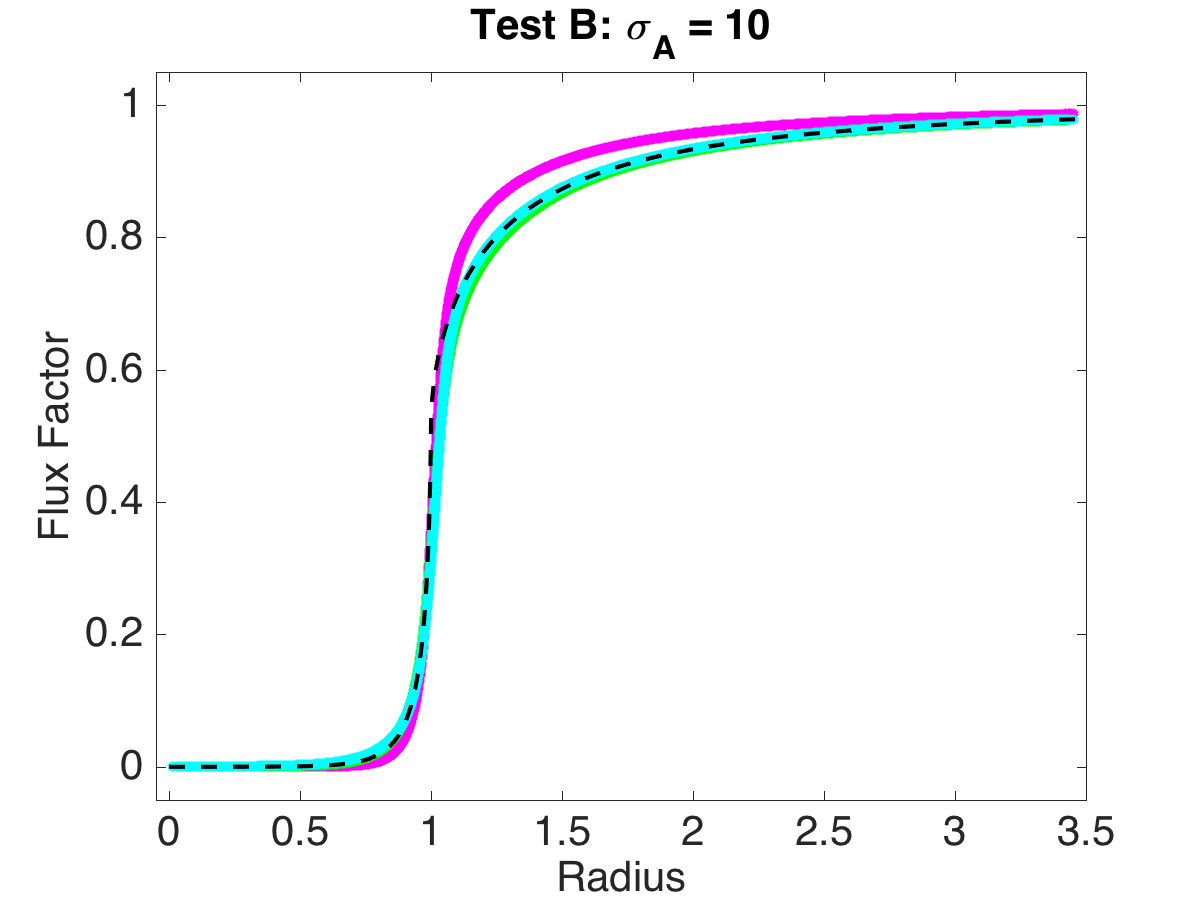
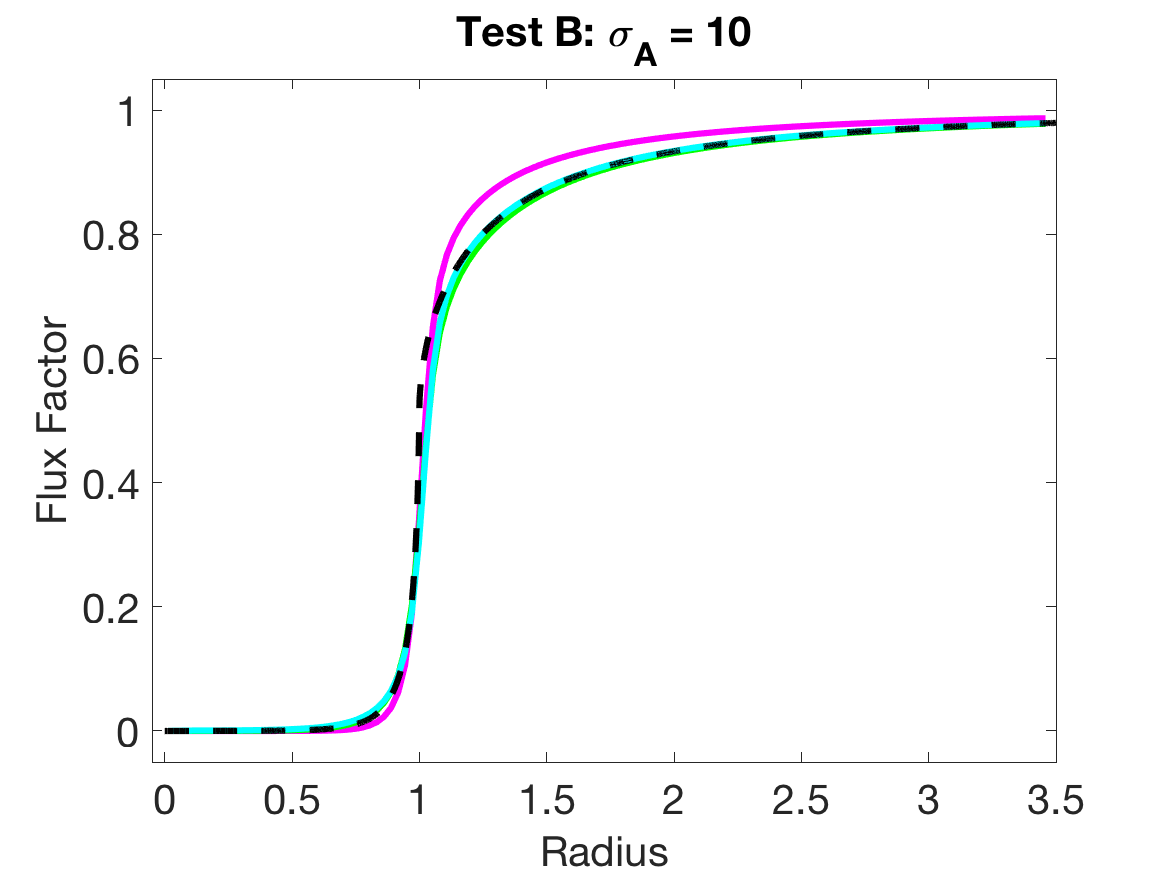
Various edits.  Replaces homogeneous sphere figures

diff --git a/Documents/M1/realizableFermionicM1/sections/intro.tex b/Documents/M1/realizableFermionicM1/sections/intro.tex
@@ -1,12 +1,12 @@
 \section{Introduction}
 \label{sec:intro}
 
-In this paper we design numerical methods to solve the two-moment model governing transport of particles obeying by Fermi-Dirac statistics (e.g., neutrinos), with the ultimate target being nuclear astrophysics applications (e.g., neutrino transport in core-collapse supernovae and compact binary mergers).  
-The numerical method is based on the discontinuous Galerkin (DG) method for spatial discretization, implicit-explicit (IMEX) methods for time integration, and is designed to preserve certain physical constraints of the underlying model.  
+In this paper we design numerical methods to solve the two-moment model governing transport of particles obeying Fermi-Dirac statistics (e.g., neutrinos), with the ultimate target being nuclear astrophysics applications (e.g., neutrino transport in core-collapse supernovae and compact binary mergers).  
+The numerical method is based on the discontinuous Galerkin (DG) method for spatial discretization and implicit-explicit (IMEX) methods for time integration, and is designed to preserve certain physical constraints of the underlying model.  
 The latter property is achieved by considering the spatial and temporal discretization together with the closure procedure for the two-moment model.  
 
 In many applications, the particle mean free path is comparable to or exceeds other characteristic length scales in the system under consideration (i.e., the Knudsen number exceeds unity), and non-equilibrium effects may become important.  
-In these situations, a kinetic description may be required, where particle distribution function $f(\vect{p},\vect{x},t)$ is solved for.  
+In these situations, a kinetic description may be required, where a particle distribution function $f(\vect{p},\vect{x},t)$ is solved for.  
 The distribution function, a phase space density depending on momentum $\vect{p}\in\bbR^{3}$ and position $\vect{x}\in\bbR^{3}$, gives at time $t\in\bbR^{+}$ the number of particles in the phase space volume element $d\vect{p}\,d\vect{x}$ (i.e., $dN=f\,d\vect{p}\,d\vect{x}$).  
 The evolution of the distribution function is governed by the Boltzmann equation, which states a balance between phase space advection and collisions (see, e.g., \cite{braginskii_1965,chapmanCowling_1970,lifshitzPitaevskii_1981}).  
 
@@ -39,33 +39,33 @@ Furthermore, the set of realizable moments generated by the particle density and
 In the fermionic case, there is also an upper bound on the distribution function (e.g., $f\le1$) because Pauli's exclusion principle prevents particles from occupying the same microscopic state.  
 The fermionic two-moment model has recently been studied theoretically in the context of maximum entropy closures \cite{lareckiBanach_2011,banachLarecki_2013,banachLarecki_2017b} and Kershaw-type closures \cite{banachLarecki_2017a}.  
 Because of the upper bound on the distribution function, the algebraic constraints on realizable moments differ from the classical case with no upper bound, and can lead to significantly different dynamics when the occupancy is high (i.e., when $f$ is close to its upper bound).  
-In the fermionic case, the set of realizable moments generated by the particle density and flux vector is also convex, and resembles a ``pinched'' cone.  
+In the fermionic case, the set of realizable moments generated by the particle density and flux vector is also convex, and resembles a ``pinched'' cone (as will be shown; cf. Figure~\ref{fig:RealizableSetFermionic} in Section~\ref{sec:realizability}).  
 It coincides with the realizable set for the classical case when the occupancy is low, but is much more restricted for high occupancy.  
 
 In this paper, the two-moment model is discretized in space using high-order Discontinuous Galerkin (DG) methods (e.g., \cite{cockburnShu_2001,hesthavenWarburton_2008}).  
 DG methods combine elements from both spectral and finite volume methods, and are an attractive option for solving hyperbolic partial differential equations (PDEs).  
 They achieve high-order accuracy on a compact stencil; i.e., data is only communicated with nearest neighbors, regardless of the formal order of accuracy, which can lead to a high computation to communication ratio, and favorable parallel scalability on heterogeneous architectures has been demonstrated \cite{klockner_etal_2009}.  
 Furthermore, they can easily be applied to problems involving curvilinear coordinates (e.g., beneficial in numerical relativity \cite{teukolsky_2016}).  
-Importantly, DG methods, exhibit favorable properties when collisions with a background are included as they recover the correct asymptotic behavior in the diffusion limit, characterized by frequent collisions (e.g., \cite{larsenMorel_1989,adams_2001,guermondKanschat_2010}).  
-The DG method was introduced in the 1970s by Reed \& Hill \cite{reedHill_1973} to solve the neutron transport equation, and has undergone remarkable developments since then (see, e.g., \cite{shu_2016}, and references therein).  
+Importantly, DG methods exhibit favorable properties when collisions with a background are included, as they recover the correct asymptotic behavior in the diffusion limit, characterized by frequent collisions (e.g., \cite{larsenMorel_1989,adams_2001,guermondKanschat_2010}).  
+The DG method was introduced in the 1970s by Reed \& Hill \cite{reedHill_1973} to solve the neutron transport equation, and has undergone remarkable developments since then (see, e.g., \cite{shu_2016} and references therein).  
 
 We are concerned with the development and application of DG methods for the fermionic two-moment model that can preserve the aforementioned algebraic constraints and ensure realizable moments, provided the initial condition is realizable.  
 Our approach is based on the constraint-preserving (CP) framework introduced in \cite{zhangShu_2010a}, and later extended to the Euler equations of gas dynamics in \cite{zhangShu_2010b}.  
-(See e.g., \cite{xing_etal_2010,zhangShu_2011,olbrant_etal_2012,cheng_etal_2013,zhang_etal_2013,endeve_etal_2015,wuTang_2015}, for extensions and applications to other systems.)  
-The main ingredients include (1) a realizability-preserving update for the cell averaged moments based on Euler time stepping, which evaluates the polynomial representation of the DG method in a finite number of quadrature points in the local elements and results in a Courant-Friedrichs-Lewy (CFL) condition on the time step; (2) a limiter to modify the polynomial representation to ensure that the algebraic constraints are satisfied point-wise without changing the cell average of the moments; and (3) a time stepping method that can be expressed as a convex combination of Euler steps, and therefore preserves the algebraic constraints as the Euler methods (possibly with a modified CFL condition).  
+(See, e.g., \cite{xing_etal_2010,zhangShu_2011,olbrant_etal_2012,cheng_etal_2013,zhang_etal_2013,endeve_etal_2015,wuTang_2015} for extensions and applications to other systems.)  
+The main ingredients include (1) a realizability-preserving update for the cell averaged moments based on Euler time stepping, which evaluates the polynomial representation of the DG method in a finite number of quadrature points in the local elements and results in a Courant-Friedrichs-Lewy (CFL) condition on the time step; (2) a limiter to modify the polynomial representation to ensure that the algebraic constraints are satisfied point-wise without changing the cell average of the moments; and (3) a time stepping method that can be expressed as a convex combination of Euler steps, and therefore preserves the algebraic constraints as do the Euler methods (possibly with a modified CFL condition).  
 
 The DG discretization leaves the temporal dimension continuous.  
 This semi-discretization leads to a system of ordinary differential equations (ODEs), which can be integrated with standard ODE solvers (i.e., the method of lines approach to solving PDEs).  
 We use implicit-explicit (IMEX) Runge-Kutta (RK) methods \cite{ascher_etal_1997,pareschiRusso_2005} to integrate the two-moment model forward in time.  
 This approach is motivated by the fact that we can resolve time scales associated with particle streaming terms in the moment equations, which will be integrated with explicit methods, while terms associated with collisional interactions with the background induce fast time scales that we do not wish to resolve, and will be integrated with implicit methods.  
-This splitting has some advantages when solving kinetic equations since the collisional interactions may couple across momentum space, but are local in position space, and is easier to parallelize than a fully implicit approach.  
+This splitting has some advantages when solving kinetic equations since the collisional interactions may couple across momentum space, but are local in position space, and are easier to parallelize than a fully implicit approach.  
 
-The CP framework of \cite{zhangShu_2010a} achieve high order (i.e., greater than first order) accuracy in time by employing explicit strong stability-preserving Runge-Kutta (SSP-RK) methods \cite{shuOsher_1988,gottlieb_etal_2001}, which can be written as a convex combination of forward Euler steps.  
-Unfortunately, this strategy to achieve high order temporal accuracy does not work as straightforwardly for standard IMEX Runge-Kutta (IMEX-RK) methods because implicit SSP Runge-Kutta methods with greater than first order accuracy do not exist \cite{gottlieb_etal_2001}.  
-To break this ``barrier'', recently proposed IMEX-RK schemes \cite{chertock_etal_2015,hu_etal_2018} have resorted to first order accuracy in favor of the SSP property in the standard IMEX-RK scheme, and recover second-order accuracy with a correction step.  
+The CP framework of \cite{zhangShu_2010a} achieves high-order (i.e., greater than first order) accuracy in time by employing strong stability-preserving explicit Runge-Kutta (SSP-RK) methods \cite{shuOsher_1988,gottlieb_etal_2001}, which can be written as a convex combination of forward Euler steps.  
+Unfortunately, this strategy to achieve high-order temporal accuracy does not work as straightforwardly for standard IMEX Runge-Kutta (IMEX-RK) methods because implicit SSP Runge-Kutta methods with greater than first order accuracy do not exist \cite{gottlieb_etal_2001}.  
+To break this ``barrier,'' recently proposed IMEX-RK schemes \cite{chertock_etal_2015,hu_etal_2018} have resorted to first order accuracy in favor of the SSP property in the standard IMEX-RK scheme, and recover second-order accuracy with a correction step.  
 
 We consider the application of the correction approach to the two-moment model.  
-However, with the correction step from \cite{chertock_etal_2015} we are unable to prove the realizability-preserving property without invoking a too restrictive time step.  
+However, with the correction step from \cite{chertock_etal_2015} we are unable to prove the realizability-preserving property without invoking a too-restrictive time step.  
 With the correction step from \cite{hu_etal_2018} the realizability-preserving property is guaranteed with a time step comparable to that of the forward Euler method applied to the explicit part of the scheme, but the resulting scheme performs poorly in the asymptotic diffusion limit.  
 Because of these challenges, we resort to first-order temporal accuracy, and propose IMEX-RK schemes that are constraint-preserving with a time step equal to that of forward Euler on the explicit part, perform well in the diffusion limit, and reduce to a second-order SSP-RK scheme in the streaming limit (no collisions with the background material).  
 
@@ -73,11 +73,11 @@ The realizability-preserving property of the DG-IMEX scheme depends sensitively 
 Employing the simple Lax-Friedrichs flux and imposing a suitable CFL condition on the time step, the explicit update of the cell average can be written as a convex combination.  
 Realizability of the updated cell average is then guaranteed from convexity arguments \cite{zhangShu_2010a}, provided all the elements in the convex combination are realizable.  
 Realizability of individual elements in the convex combination is conditional on the closure procedure (components of the Eddington tensor must be computed to evaluate numerical fluxes).  
-We prove that each element in the convex combination is realizable, provided the moments involved in expressing the elements are moments of a distribution function satisfying the bounds implied by Fermi-Dirac statistics (i.e., $0\le f \le 1$).  
-For simple algebraic two-moment closures, which we consider, the so-called Eddington factor is given by an algebraic expression depending on the evolved moments and completely determines the components of the Eddington tensor.  
-Realizable components of the Eddington tensor demands that the Eddington factor satisfies strict lower and upper bounds (e.g., \cite{levermore_1984,lareckiBanach_2011}).  
-We discuss simple algebraic closures derived from Fermi-Dirac statistics that satisfy these bounds, and demonstrate with numerical experiments that the DG-IMEX scheme preserves realizability of the moments when these closures are used.  
-We also demonstrate that further approximations to algebraic two-moment closures for modeling particle systems governed by Fermi-Dirac statistics may give results that are incompatible with a bounded distribution and therefore unphysical.  
+We prove that each element in the convex combination is realizable provided the moments involved in expressing the elements are moments of a distribution function satisfying the bounds implied by Fermi-Dirac statistics (i.e., $0\le f \le 1$).  
+For algebraic two-moment closures, which we consider, the so-called Eddington factor is given by an algebraic expression depending on the evolved moments and completely determines the components of the Eddington tensor.  
+Realizable components of the Eddington tensor demand that the Eddington factor satisfies strict lower and upper bounds (e.g., \cite{levermore_1984,lareckiBanach_2011}).  
+We discuss algebraic closures derived from Fermi-Dirac statistics that satisfy these bounds, and demonstrate with numerical experiments that the DG-IMEX scheme preserves realizability of the moments when these closures are used.  
+We also demonstrate that further approximations to algebraic two-moment closures for modeling particle systems governed by Fermi-Dirac statistics may give results that are incompatible with a bounded distribution and, therefore, unphysical.  
 The example we consider is the Minerbo closure \cite{minerbo_1978}, which can be obtained as the low occupancy limit of the maximum entropy closure of Cernohorsky \& Bludman \cite{cernohorskyBludman_1994}.  
 
 The paper is organized as follows.  

diff --git a/Documents/M1/realizableFermionicM1/sections/conclusion.tex b/Documents/M1/realizableFermionicM1/sections/conclusion.tex
@@ -2,31 +2,31 @@
 \label{sec:conclusions}
 
 We have developed a realizability-preserving DG-IMEX scheme for a two-moment model for fermion transport.  
-The scheme employs simple algebraic two-moment closures rooted in Fermi-Dirac statistics, and combines a time step restriction (CFL condition), a realizability-enforcing limiter, and a constraint-preserving time integrator to maintain point-wise realizability of the moments.  
+The scheme employs algebraic two-moment closures rooted in Fermi-Dirac statistics, and combines a time step restriction (CFL condition), a realizability-enforcing limiter, and a constraint-preserving time integrator to maintain point-wise realizability of the moments.  
 Since the realizable domain is a convex set, the realizability-preserving property is obtained from convexity arguments, building on the framework in \cite{zhangShu_2010a}.  
 
 In the applications motivating this work, the collision term is stiff in regions of the computational domain, and we have considered IMEX schemes to avoid solving the transport operator implicitly in a fully implicit scheme.  
-We considered recently proposed second-order accurate, constraint-preserving IMEX schemes (cf. \cite{chertock_etal_2015,hu_etal_2018}), which restore second-order accuracy with an implicit correction step.  
+We considered recently proposed second-order accurate, constraint-preserving IMEX schemes \cite{chertock_etal_2015,hu_etal_2018}, which restore second-order accuracy with an implicit correction step.  
 However, we are unable to prove realizability (without invoking a very small time step) with the approach in \cite{chertock_etal_2015}, and we have demonstrated that the approach in \cite{hu_etal_2018} does not perform well in the diffusion limit.  
 For these reasons, and the general nonexistence of high-order, implicit SSP-RK schemes \cite{gottlieb_etal_2001}, we have resorted to develop first-order, constraint-preserving IMEX schemes.  
-While the proposed scheme (dubbed PD-ARS) is formally only first-order accurate, it works well in the diffusion limit, is constraint-preserving with a reasonable time step, and reduces to the optimal second-order accurate SSP-RK scheme in the streaming limit.  
+While the proposed scheme (dubbed PD-ARS) is formally only first-order accurate, it works well in the diffusion limit, is constraint-preserving with a reasonable time step, and reduces to the optimal second-order accurate explicit SSP-RK scheme in the streaming limit.  
 
-For each stage of the IMEX scheme, the cell-averaged moments can be written as a convex combination of forward Euler steps (implying the Shu-Osher form for the explicit part), followed by a backward Euler step.  
-Realizability of the explicit part requires the DG solution to be realizable in a finite number of quadrature points in each element and the time step to satisfy a CFL condition.  
-For the backward Euler step, realizability of the cell-averages follows easily from the simple form of the collision operator (which includes emission, absorption, and isotropic elastic scattering), and is independent of the time step.  
-The CFL condition is then solely due to the transport operator, and the time step can be as large as that of the forward Euler scheme applied to the explicit part.  
-After each update, the limiter enforces moment realizability point-wise by damping towards the realizable cell average.  
+For each stage of the IMEX scheme, the update of the cell-averaged moments can be written as a convex combination of forward Euler steps (implying the Shu-Osher form for the explicit part), followed by a backward Euler step.  
+Realizability of the cell-averaged moments due to the explicit part requires the DG solution to be realizable in a finite number of quadrature points in each element and the time step to satisfy a CFL condition.  
+For the backward Euler step, realizability of the cell-averages follows easily from the simple form of the collision operator (which includes emission, absorption, and isotropic scattering without energy exchange), and is independent of the time step.  
+The CFL condition is then solely due to the transport operator, and the time step can be as large as that of the forward Euler scheme applied to the explicit part of the cell-average update.  
+After each stage update, the limiter enforces moment realizability point-wise by damping towards the realizable cell average.  
 Numerical experiments are presented to demonstrate the accuracy and realizability-preserving property of the scheme.  
 The applicability of the PD-ARS scheme is not restricted to the fermionic two-moment model.  
 It may therefore be a useful option in other applications of kinetic theory where physical constraints confine solutions to a convex set and capturing the diffusion limit is important.  
 
 Realizability of the fermionic two-moment model depends sensitively on the closure procedure.  
-For the simple algebraic closures adapted in this work, realizability of the scheme demands that lower and upper bounds on the Eddington factor are satisfied \cite{levermore_1984,lareckiBanach_2011}.  
-The Eddington factors deriving from the maximum entropy closures of Cernohorsky \& Bludman \cite{cernohorskyBludman_1994} and Larecki \& Banach \cite{lareckiBanach_2011}, and the Kershaw-type closure of Larecki \& Banach \cite{banachLarecki_2017a} satisfy these bounds, and are suitable for the fermionic two-moment model.  
-Further approximations of the closure procedure, e.g., employing the low occupancy limit, which results in the Minerbo closure \cite{minerbo_1978} when starting with the maximum entropy closure of \cite{cernohorskyBludman_1994}, is not compatible with realizability of the fermionic two-moment model, and we caution against this approach to modeling particle systems governed by Fermi-Dirac statistics; particularly if the low occupancy approximation is unlikely to hold (e.g., when modeling neutrino transport in core-collapse supernovae).  
+For the algebraic closures adapted in this work, realizability of the scheme demands that lower and upper bounds on the Eddington factor are satisfied \cite{levermore_1984,lareckiBanach_2011}.  
+The Eddington factors deriving from the maximum entropy closures of Cernohorsky \& Bludman \cite{cernohorskyBludman_1994} and Larecki \& Banach \cite{lareckiBanach_2011}, and the Kershaw-type closure of Larecki \& Banach \cite{banachLarecki_2017a}, satisfy these bounds, and are suitable for the fermionic two-moment model.  
+Further approximations of the closure procedure (e.g., employing the low occupancy limit, which results in the Minerbo closure \cite{minerbo_1978} when starting with the maximum entropy closure of \cite{cernohorskyBludman_1994}) is not compatible with realizability of the fermionic two-moment model, and we caution against this approach to modeling particle systems governed by Fermi-Dirac statistics; particularly if the low occupancy approximation is unlikely to hold (e.g., when modeling neutrino transport in core-collapse supernovae).  
 
 In this work, we considered a relatively simple model.  
-In particular, we adopted Cartesian coordinates, assumed a linear collision operator and a fixed material background.  
-Inelastic scattering and relativistic effects (e.g., due to interactions with a moving background or the presence of a strong gravitational field) were not included.  
-To solve more realistic problems of higher scientific interest, some or all of these physical effects may have to be included.  
-In the context of constraint-preserving schemes, these extension provide significant challenges suitable for future investigations, and for which the scheme presented here may serve as a foundation.  
+In particular, we adopted Cartesian coordinates, and assumed a linear collision operator and a fixed material background.  
+Scattering with energy exchange and relativistic effects (e.g., due to a moving material and the presence of a strong gravitational field) were not included.  
+To solve more realistic problems of scientific interest, some or all of these physical effects will have to be included.  
+In the context of developing constraint-preserving schemes, these extensions will provide significant challenges suitable for future investigations, for which the scheme presented here may serve as a foundation.  

diff --git a/Documents/M1/realizableFermionicM1/sections/imex.tex b/Documents/M1/realizableFermionicM1/sections/imex.tex
@@ -17,7 +17,7 @@ In Eq.~\eqref{eq:ode}, the transport operator $\vect{\cT}$ corresponds to the se
 
 Eq.~\eqref{eq:ode} is to be integrated forward in time with an ODE integrator, and we begin with the following definition of a constraint-preserving time integration scheme, as applied to integrate a physical model forward in time.  
 \begin{define}
-  Given sufficient conditions, a constraint-preserving time integration scheme preserves the constraints of a model if the set of admissible states satisfying the constraints form a convex set.  
+  Given sufficient conditions, a constraint-preserving time integration scheme preserves the constraints of a model if the set of admissible states satisfying the constraints forms a convex set.  
   \label{def:constraintPreserving}
 \end{define}
 As an example, given a spatial discretization of a model that is constraint-preserving with the forward Euler method for a sufficiently small time step, high-order explicit strong stability-preserving Runge-Kutta (SSP-RK) methods, which can be expressed as convex combinations of forward Euler steps, also preserve the constraints (possibly with a smaller time step), and form a class of constraint-preserving schemes.  
@@ -141,17 +141,19 @@ The absence of the transport operator in the correction step in Eq.~\eqref{eq:im
 We demonstrate the inferior performance of IMEX schemes with this correction step in the diffusion limit in Section~\ref{sec:smoothProblems}.  
 We have also implemented and tested one of the IMEX schemes in Chertock et al. \cite{chertock_etal_2015} (not included in Section~\ref{sec:smoothProblems}), where the transport operator is part of the correction step, and found it to perform very well in the diffusion limit.  
 However, we have not been able to prove the realizability-preserving property with this approach without invoking a too severe time step restriction.  
-We therefore proceed to design constraint-preserving IMEX schemes, without the correction step, that perform better in the diffusion limit.  
+We therefore proceed to design constraint-preserving IMEX schemes, without the correction step, that perform well in the diffusion limit.  
 We limit the scope to IMEX schemes of type~ARS.  
 (It can be shown that IMEX schemes of type~A conforming to Definition~\ref{def:PD-IMEX} below do not exist; cf. \ref{app:noTypeA}.)
 
 We take a heuristic approach to determine conditions on the coefficients of the IMEX scheme to ensure it performs well in the diffusion limit.  
+We leave the spatial discretization unspecified.  
 Define the vectors 
 \begin{equation}
   \vec{\cJ}=(\cJ^{(1)},\ldots,\cJ^{(s)})^{T}
   \quad\text{and}\quad
   \vec{\vect{\cH}}=(\vect{\cH}^{(1)},\ldots,\vect{\cH}^{(s)})^{T}.  
 \end{equation}
+(The components of $\vec{\cJ}$ and $\vec{\vect{\cH}}$ can, e.g., be the cell averages evolved with the DG method.)  
 We can then write the stages of the IMEX scheme in Eq.~\eqref{imexStages} applied to the number density equation as
 \begin{equation}
   \vec{\cJ}=\cJ^{n}\,\vec{\vect{e}} - \dt\,\tilde{A}\,\nabla\cdot\vec{\vect{\cH}}, 
@@ -244,8 +246,9 @@ On the right-hand side of Eq.~\eqref{eq:scalarODE}, the first (oscillatory) term
 The IMEX schemes can then be written as $u^{n+1} =P(z_{1},z_{2})\,u^{n}$, where $P(z_{1},z_{2})$ is the amplification factor of the scheme, $z_{1}=\dt\,\lambda_{1} = x +iy$, and $z_{2} = \dt\,\lambda_{2} \le 0$.  
 Stability of the IMEX scheme requires $|P(z_1,z_2)|\leq 1$.  
 The stability regions of PA2+ and PD-ARS are plotted in Figure~\ref{fig:AbsoluteStability}.  
+(Contours of constant $z_{2}$ are included, and the stability region for a given $z_{2}$ is enclosed by the corresponding contour.)  
 As can be seen from the figures, the absolute stability region of both schemes increases with increasing $|z_{2}|$ (increased damping).  
-For a given $|z_{2}|\ge0$, the stability region of PD-ARS is larger than that of PA2+.  
+For a given $|z_{2}|>0$, the stability region of PD-ARS is larger than that of PA2+.  
 In the linear case, a time step that satisfies the absolute stability for the explicit part of the IMEX scheme ($|z_2| = 0$) fulfills the stability requirement for the IMEX scheme as whole ($|z_2| \geq 0$).  
 This holds for all PD-ARS schemes with $\epsilon\in [0,0.5)$.
 \begin{figure}[h]

diff --git a/Documents/M1/realizableFermionicM1/manuscript.tex b/Documents/M1/realizableFermionicM1/manuscript.tex
@@ -80,7 +80,7 @@ This research was supported by the Exascale Computing Project (17-SC-20-SC), a c
 Eirik Endeve was supported in part by NSF under Grant No. 1535130.}
 
 %% Group authors per affiliation:
-\author[ornl,utk-phys]{Eirik Endeve\corref{cor}}
+\author[ornl,utk-phys,jics]{Eirik Endeve\corref{cor}}
 \ead{endevee@ornl.gov}
 
 \author[utk-phys]{Ran Chu}
@@ -89,7 +89,7 @@ Eirik Endeve was supported in part by NSF under Grant No. 1535130.}
 \author[ornl,utk-math]{Cory D. Hauck}
 \ead{hauckc@ornl.gov}
 
-\author[utk-phys]{Anthony Mezzacappa}
+\author[utk-phys,jics]{Anthony Mezzacappa}
 \ead{mezz@utk.edu}
 
 \cortext[cor]{Corresponding author. Tel.:+1 865 576 6349; fax:+1 865 241 0381}
@@ -98,16 +98,18 @@ Eirik Endeve was supported in part by NSF under Grant No. 1535130.}
 
 \address[utk-phys]{Department of Physics and Astronomy, University of Tennessee Knoxville, TN 37996-1200}
 
+\address[jics]{Joint Institute for Computational Sciences, Oak Ridge National Laboratory, Oak Ridge, TN 37831-6354}
+
 \address[utk-math]{Department of Mathematics, University of Tennessee Knoxville, TN 37996-1320}
 
 \begin{abstract}
-Building on the framework of Zhang \& Shu \cite{zhangShu_2010a,zhangShu_2010b}, we develop a realizability-preserving method to simulate transport of particles (fermions) through a background material using the two-moment model of radiation transport, which evolves angular moments of a phase space distribution function $f$.  
-The two-moment model is closed using simple algebraic moment closures, e.g., as proposed by Cernohorsky \& Bludman \cite{cernohorskyBludman_1994} and Banach \& Larecki \cite{banachLarecki_2017a}.  
+Building on the framework of Zhang \& Shu \cite{zhangShu_2010a,zhangShu_2010b}, we develop a realizability-preserving method to simulate transport of particles (fermions) through a background material using the two-moment model of particle transport, which evolves angular moments of a phase space distribution function $f$.  
+The two-moment model is closed using algebraic moment closures; e.g., as proposed by Cernohorsky \& Bludman \cite{cernohorskyBludman_1994} and Banach \& Larecki \cite{banachLarecki_2017a}.  
 Variations of this model have recently been used to simulate neutrino transport in nuclear astrophysics applications --- including core-collapse supernovae and compact binary mergers.  
 We employ the discontinuous Galerkin (DG) method for spatial discretization (in part to capture the asymptotic diffusion limit of the model) combined with implicit-explicit (IMEX) time integration to stably bypass short timescales induced by frequent interactions between particles and the background.  
 Appropriate care is taken to ensure the method preserves strict algebraic bounds on the evolved moments (particle density and flux) as dictated by Pauli's exclusion principle, which demands a bounded distribution function (i.e., $f\in[0,1]$).  
 This realizability-preserving scheme combines a suitable CFL condition, a realizability-enforcing limiter, a closure procedure based on Fermi-Dirac statistics, and an IMEX scheme whose stages can be written as a convex combination of forward Euler steps combined with a backward Euler step.  
-The IMEX scheme is formally only first-order accurate, but works well in the diffusion limit, and --- without interactions with the background --- reduces to the optimal second-order explicit strong stability-preserving Runge-Kutta scheme of Shu \& Osher \cite{shuOsher_1988}.  
+The IMEX scheme is formally only first-order accurate, but works well in the diffusion limit, and --- without interactions with the background --- reduces to the optimal second-order strong stability-preserving explicit Runge-Kutta scheme of Shu \& Osher \cite{shuOsher_1988}.  
 Numerical results demonstrate the realizability-preserving properties of the scheme.  
 We also demonstrate that the use of algebraic moment closures not based on Fermi-Dirac statistics can lead to unphysical moments in the context of fermion transport.  
 \end{abstract}

diff --git a/Documents/M1/realizableFermionicM1/sections/appendix.tex b/Documents/M1/realizableFermionicM1/sections/appendix.tex
@@ -97,7 +97,7 @@ $\alpha=0$, and $\tilde{w}_{i}=\tilde{a}_{3i} = w_{i}=a_{3i}$ for $i\le3$.
 
 \paragraph{IMEX PD-ARS}
 
-We have found diffusion accurate, constraint-preserving IMEX schemes of type ARS that are second-order accurate in the streaming limit, which we refer to as IMEX PD-ARS; see \ref{app:PD-ARS}.  
+We have found a family of constraint-preserving, diffusion accurate IMEX schemes of type ARS that are second-order accurate in the streaming limit, which we refer to as IMEX PD-ARS; see \ref{app:PD-ARS}.  
 For these schemes, $c_{\mbox{\tiny Sch}}= 1 - 2\epsilon$ with $\epsilon \in [0, 1/2)$.
 Here we give an example by setting $\epsilon=0.1$.
 \begin{align*}
@@ -156,7 +156,7 @@ The optimal third-order accurate, strong-stability-preserving Runge-Kutta scheme
 
 Here we construct a three-stage PD-IMEX scheme of Type~ARS, conforming to Definition~\ref{def:PD-IMEX}.  
 We refer to the resulting IMEX scheme as PD-ARS.  
-The double Butcher tableau is
+For a 3-stage scheme, the double Butcher tableau is
 \begin{equation}
   \begin{array}{c | c c c}
   	         0           & 0                 & 0                   & 0  \\
@@ -176,7 +176,7 @@ The problem is then to find the coefficients $\{ \tilde{a}_{21}, \tilde{a}_{31},
 \begin{equation}
   c_{\mbox{\tiny Sch}} = \min \Big\{\, \dfrac{c_{20}}{\tilde{c}_{20}},\, \dfrac{c_{30}}{\tilde{c}_{30}},\, \dfrac{c_{32}}{\tilde{c}_{32}} \,\Big\}.  
 \end{equation}
-Imposing the equality constraints (i.e., Eqs.~\eqref{eq:implicitConsistency}, \eqref{eq:orderConditionsEx}, and \eqref{eq:diffusionCondition}), the double Butcher tableau can be written in terms of two parameters ($x$ and $y$) as
+Imposing the equality constraints (i.e., Eqs.~\eqref{eq:implicitConsistency}, \eqref{eq:orderConditionsEx}, and \eqref{eq:diffusionCondition}), the double Butcher tableau can be written in terms of two independent parameters ($x,y\in\bbR$) as
 \begin{equation}
   \begin{array}{c | c c c}
   	     0       & 0            & 0 & 0 \\
@@ -209,7 +209,7 @@ Setting $\epsilon = 0$ gives the optimal scheme with $c_{\mbox{\tiny Sch}} = 1$.
 \section{Nonexistence of Three-Stage PD-IMEX Scheme of Type~A}
 \label{app:noTypeA}
 
-Here we prove that a PD-IMEX scheme (i.e., conforming to Definition~\ref{def:PD-IMEX}) of type~A does not exist.  
+Here we prove that a PD-IMEX scheme  of type~A (i.e., conforming to Definition~\ref{def:PD-IMEX} with Eq.~\eqref{eq:positivityConditionsTypeA} replacing Eq.~\eqref{eq:positivityConditionsTypeARS} in item 3) does not exist.  
 First, for a three-stage, GSA IMEX scheme of type~A the double Butcher tableau is
 \begin{equation*}
   \begin{array}{c | c c c}
@@ -244,8 +244,8 @@ The first constraint in Eq.~\eqref{eq:1stOrderGeneral} together with the constra
   a_{31} = 0.
   \label{eq:a31is0}
 \end{align}
-The constraint-preserving property requires $a_{11}, a_{22}, a_{33}>0$.  
-The inequality constraints in Eq.~\eqref{eq:positivityConditionsTypeA} also require
+Next we consider the inequality constraints.  
+The constraint-preserving property in Eq.~\eqref{eq:positivityConditionsTypeA} requires $a_{11}, a_{22}, a_{33}>0$, and 
 \begin{equation}
   c_{21} = \frac{a_{21}}{a_{11}} \geq 0, \quad
   c_{31} = \frac{a_{31}}{a_{11}} - \frac{a_{32}\,a_{21}}{a_{22}\,a_{11}} \geq 0, \quad\text{and}\quad

diff --git a/Documents/M1/realizableFermionicM1/sections/numerical.tex b/Documents/M1/realizableFermionicM1/sections/numerical.tex
@@ -3,7 +3,7 @@
 
 In this section we present numerical results obtained with the DG-IMEX scheme developed in this paper.  
 The first set of tests (Section~\ref{sec:smoothProblems}) are included to compare the time integration schemes in various regimes.  
-We are not concerned with moment realizability here, and we do not apply the realizability-enforcing limiter in these tests.  
+We are not concerned with moment realizability in Section~\ref{sec:smoothProblems}, and we do not apply the realizability-enforcing limiter in these tests.  
 The tests in Sections~\ref{sec:packedBeam} and \ref{sec:fermionImplosion} are designed specifically to demonstrate the robustness of the scheme to dynamics near the boundary of the realizable set $\cR$.  
 The test in Section~\ref{sec:homogeneousSphere} (Homogeneous Sphere) is of astrophysical interest.  
 Here we consider moment realizability and compare results obtained with various moment closures.  
@@ -291,7 +291,7 @@ In all the tests, we use the IMEX scheme PD-ARS --- the least compute-intensive 
 The main purpose of this test is to compare the results obtained using the different algebraic closures discussed in Section~\ref{sec:algebraicClosure}.  
 
 In Figure~\ref{fig:HomogeneousSphere}, we plot results obtained for all tests at $t=5$: Test~A (top panels), Test~B (middle panels), and Test~C (bottom panels).  
-The particle density $\cJ$ and the flux factor $h=|\vect{\cH}|/\cJ$ (left and right panels, respectively) are plotted versus radius $r=|\vect{x}|$ using scatter plots.  
+The particle density $\cJ$ and the flux factor $h=|\vect{\cH}|/\cJ$ (left and right panels, respectively) are plotted versus radius $r=|\vect{x}|$.  
 In each panel, results obtained with the various algebraic closures discussed in Section~\ref{sec:algebraicClosure} are plotted: Minerbo (magenta), CB (blue), BL (green), and Kershaw (cyan).  
 The analytical solution is also plotted (dashed black lines).  
 \begin{figure}[H]

diff --git a/Documents/M1/realizableFermionicM1/sections/realizability.tex b/Documents/M1/realizableFermionicM1/sections/realizability.tex
@@ -79,12 +79,12 @@ Lemma~\ref{lem:explicitStep} is used to help prove the realizability-preserving 
   Let $\Phi^{\pm}(\vect{\cM},\vect{\cK})=\f{1}{2}\big(\vect{\cM}\pm\widehat{\vect{e}}\cdot\vect{\cF}\big)$, where $\widehat{\vect{e}}\in\bbR^{3}$ is an arbitrary unit vector, and $\widehat{\vect{e}}\cdot\vect{\cF}=\big(\widehat{\vect{e}}\cdot\vect{\cH},\widehat{\vect{e}}\cdot\vect{\cK}\big)^{T}$.  
   Then
   \begin{equation*}
-    \vect{\cM}_{ab} = \big(\cJ_{ab},\vect{\cH}_{ab}\big)^{T} \equiv \Phi^{+}(\vect{\cM}_{a},\vect{\cK}_{a})+\Phi^{-}(\vect{\cM}_{b},\vect{\cK}_{b})\in\cR.
+    \vect{\cM}_{ab} \equiv \Phi^{+}(\vect{\cM}_{a},\vect{\cK}_{a})+\Phi^{-}(\vect{\cM}_{b},\vect{\cK}_{b})\in\cR.
   \end{equation*}
   \label{lem:explicitStep}
 \end{lemma}
 \begin{proof}
-  It is straightforward to rewrite the components of $\vect{\cM}_{ab}$ as
+  It is straightforward to rewrite the components of $\vect{\cM}_{ab}= \big(\cJ_{ab},\vect{\cH}_{ab}\big)^{T}$ as
   \begin{equation*}
     \cJ_{ab}=\f{1}{4\pi}\int_{\bbS^{2}}f_{ab}(\omega)\,d\omega
     \quad\text{and}\quad
